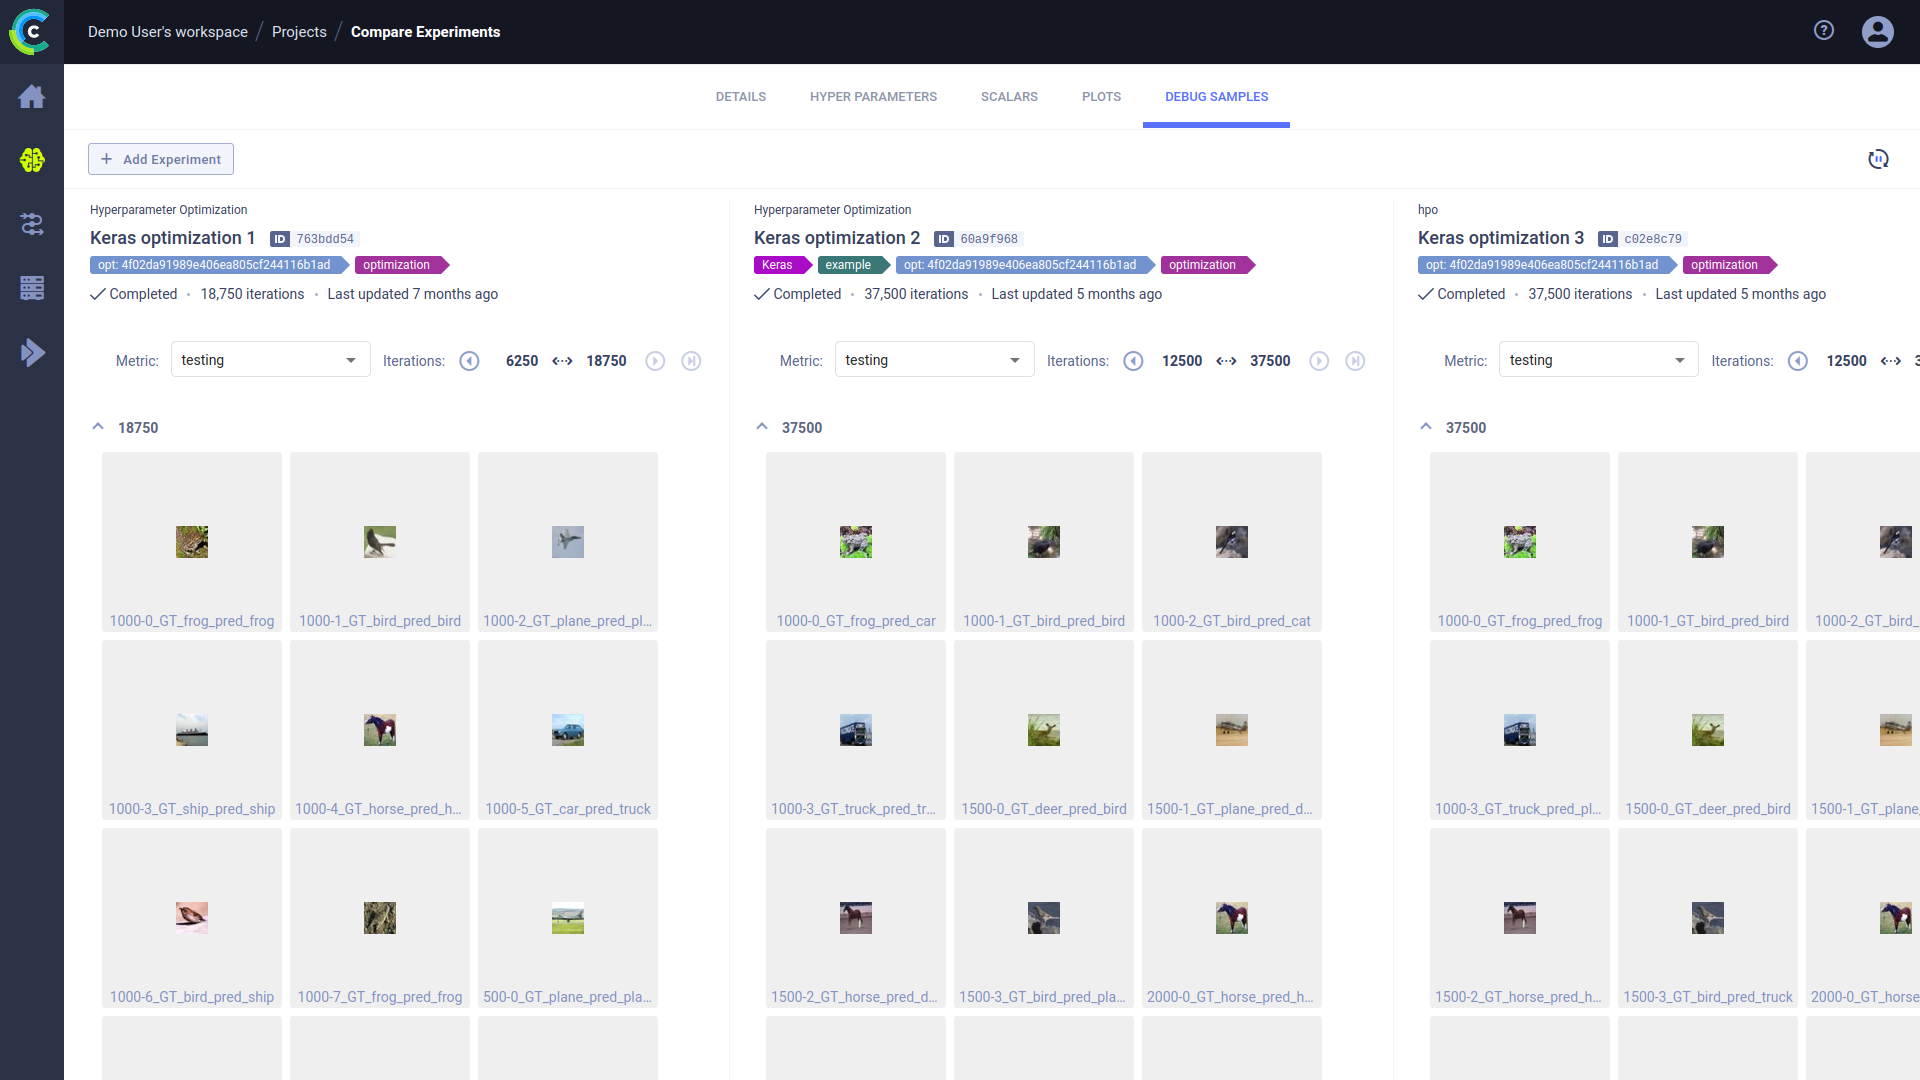
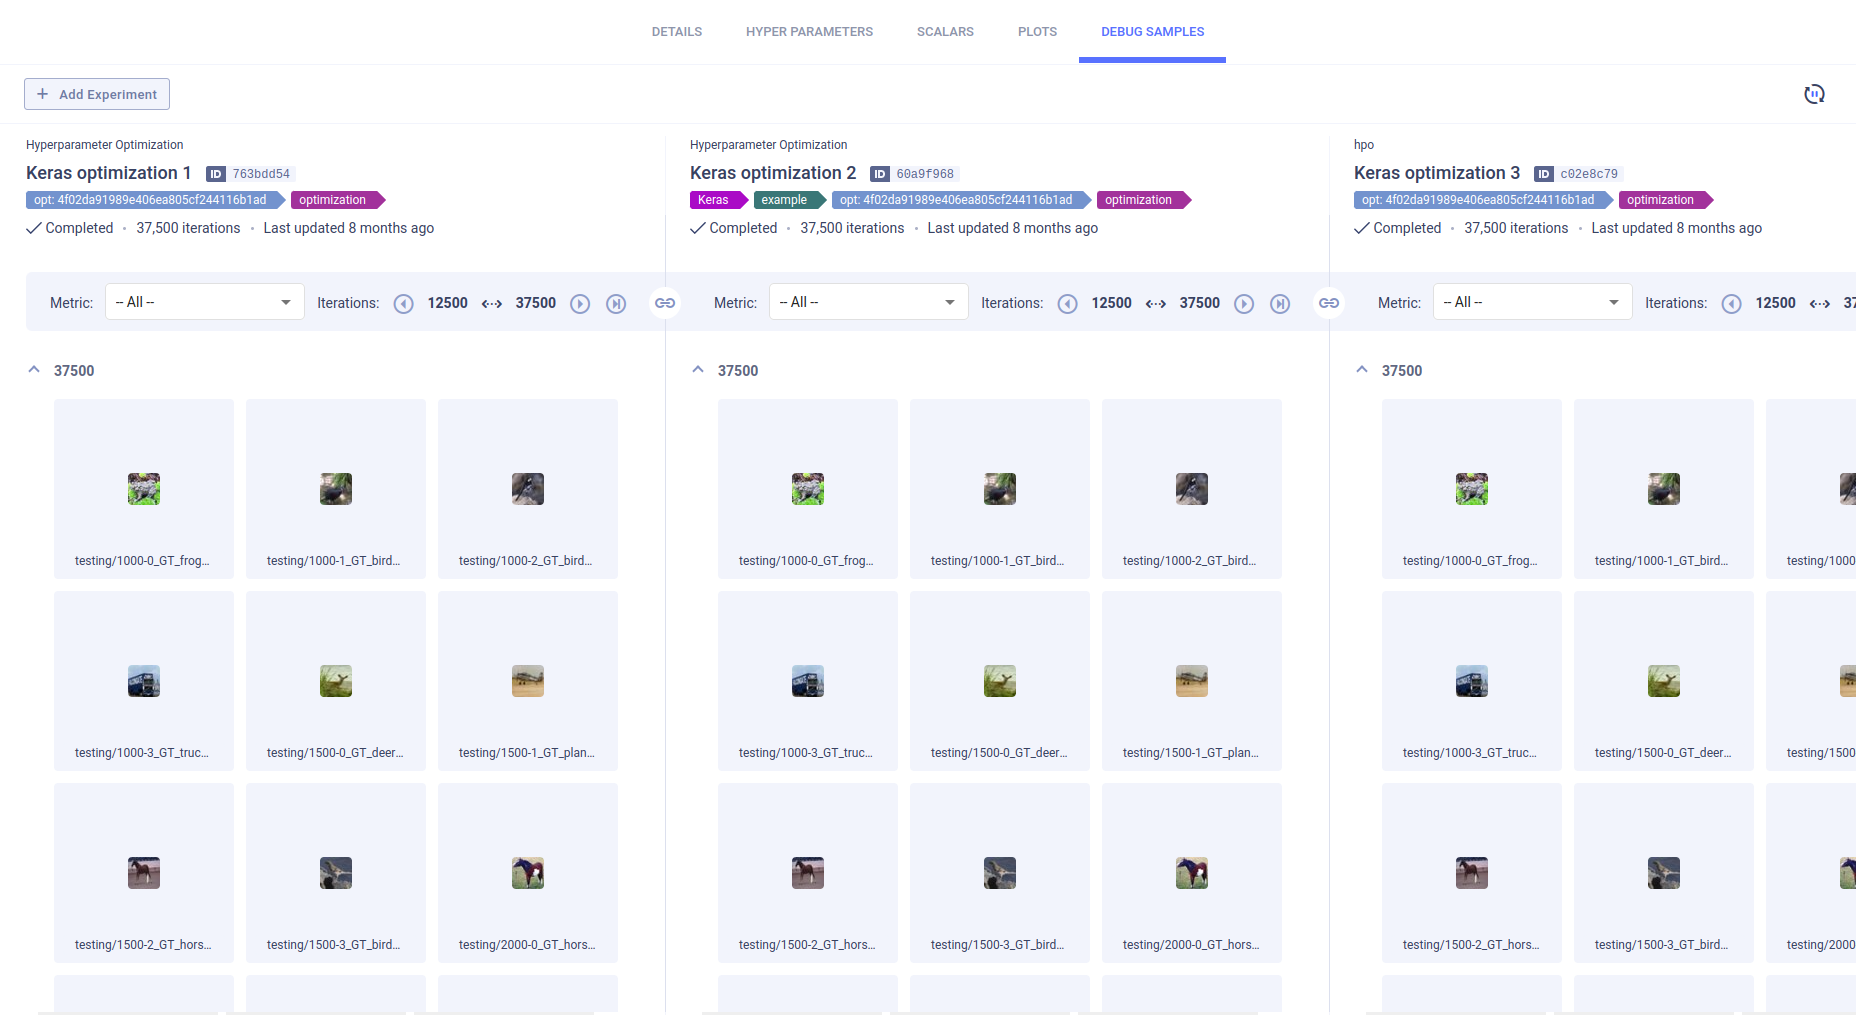
Add debug sample comparison sync

diff --git a/docs/webapp/webapp_exp_comparing.md b/docs/webapp/webapp_exp_comparing.md
@@ -192,6 +192,9 @@ first. Use the viewer / player to inspect images, audio, video samples and do an
     * Filter by metric. In the **Metric** list, choose a metric.
     * Show other iterations. Click <img src="/docs/latest/icons/ico-circle-older.svg" alt="Left arrow" className="icon size-md space-sm" /> (Older images),
       <img src="/docs/latest/icons/ico-circle-newer.svg" alt="Right arrow" className="icon size-md space-sm" /> (New images), or <img src="/docs/latest/icons/ico-circle-newest.svg" alt="right arrow, newest image" className="icon size-md space-sm" /> (Newest images).
+    * Click <img src="/docs/latest/icons/ico-disconnect.svg" alt="Sync selection" className="icon size-md space-sm" /> in 
+      order to synchronize iteration and metric selection across experiments. For example, if you select a metric for 
+      one experiment’s debug samples, the same metric will be automatically selected for the rest of the experiments in the comparison.   
 
     ![image](../img/webapp_compare_30.png)
 
